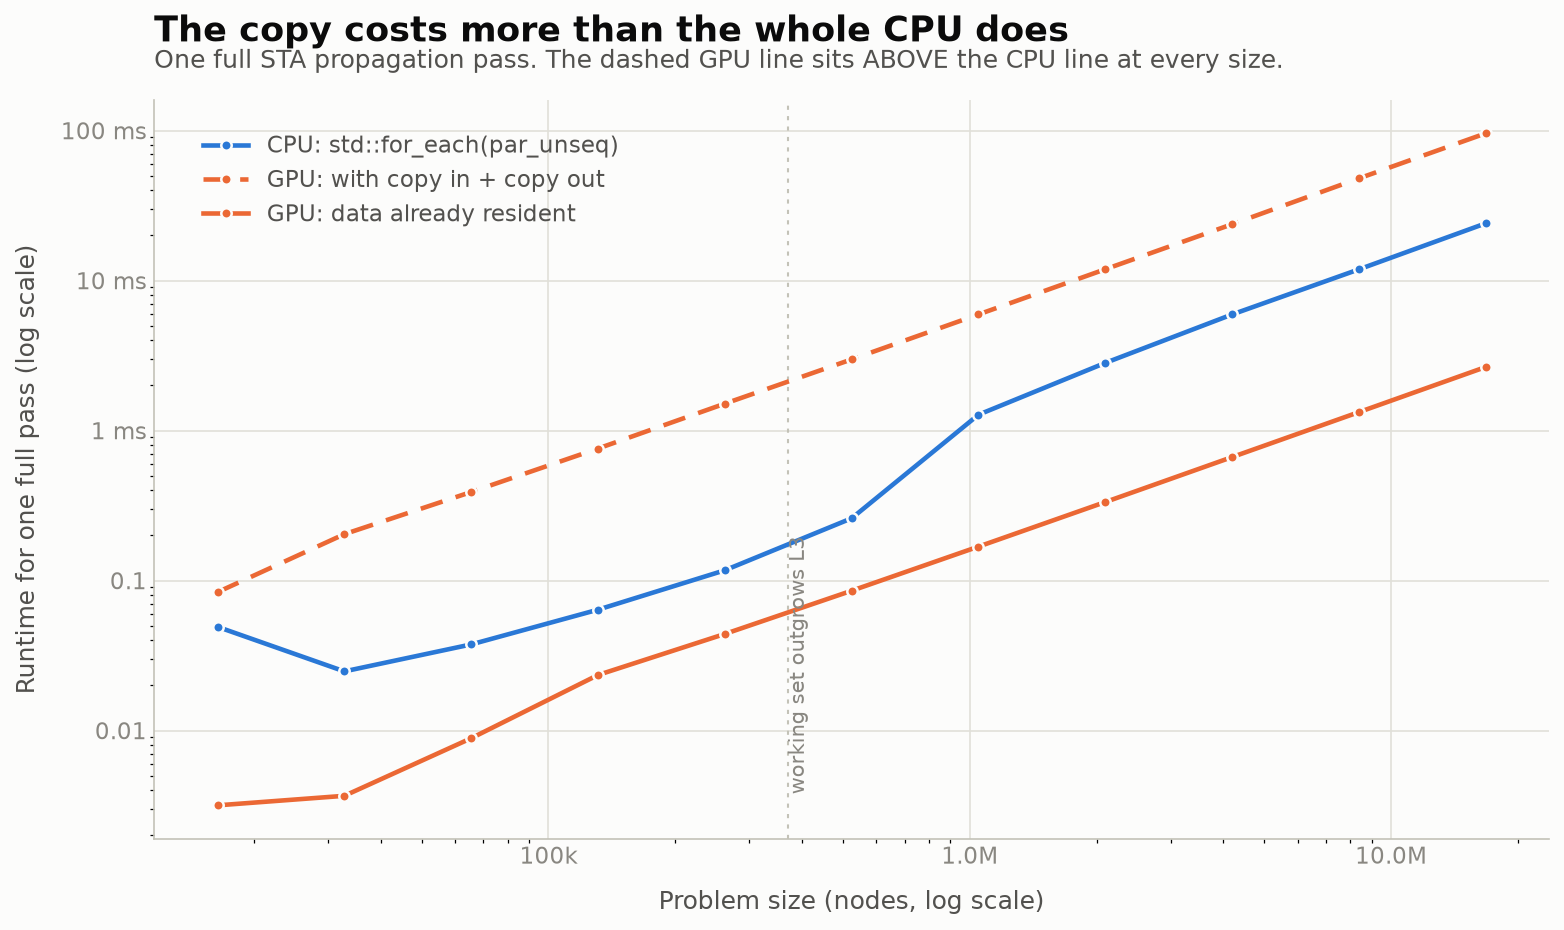
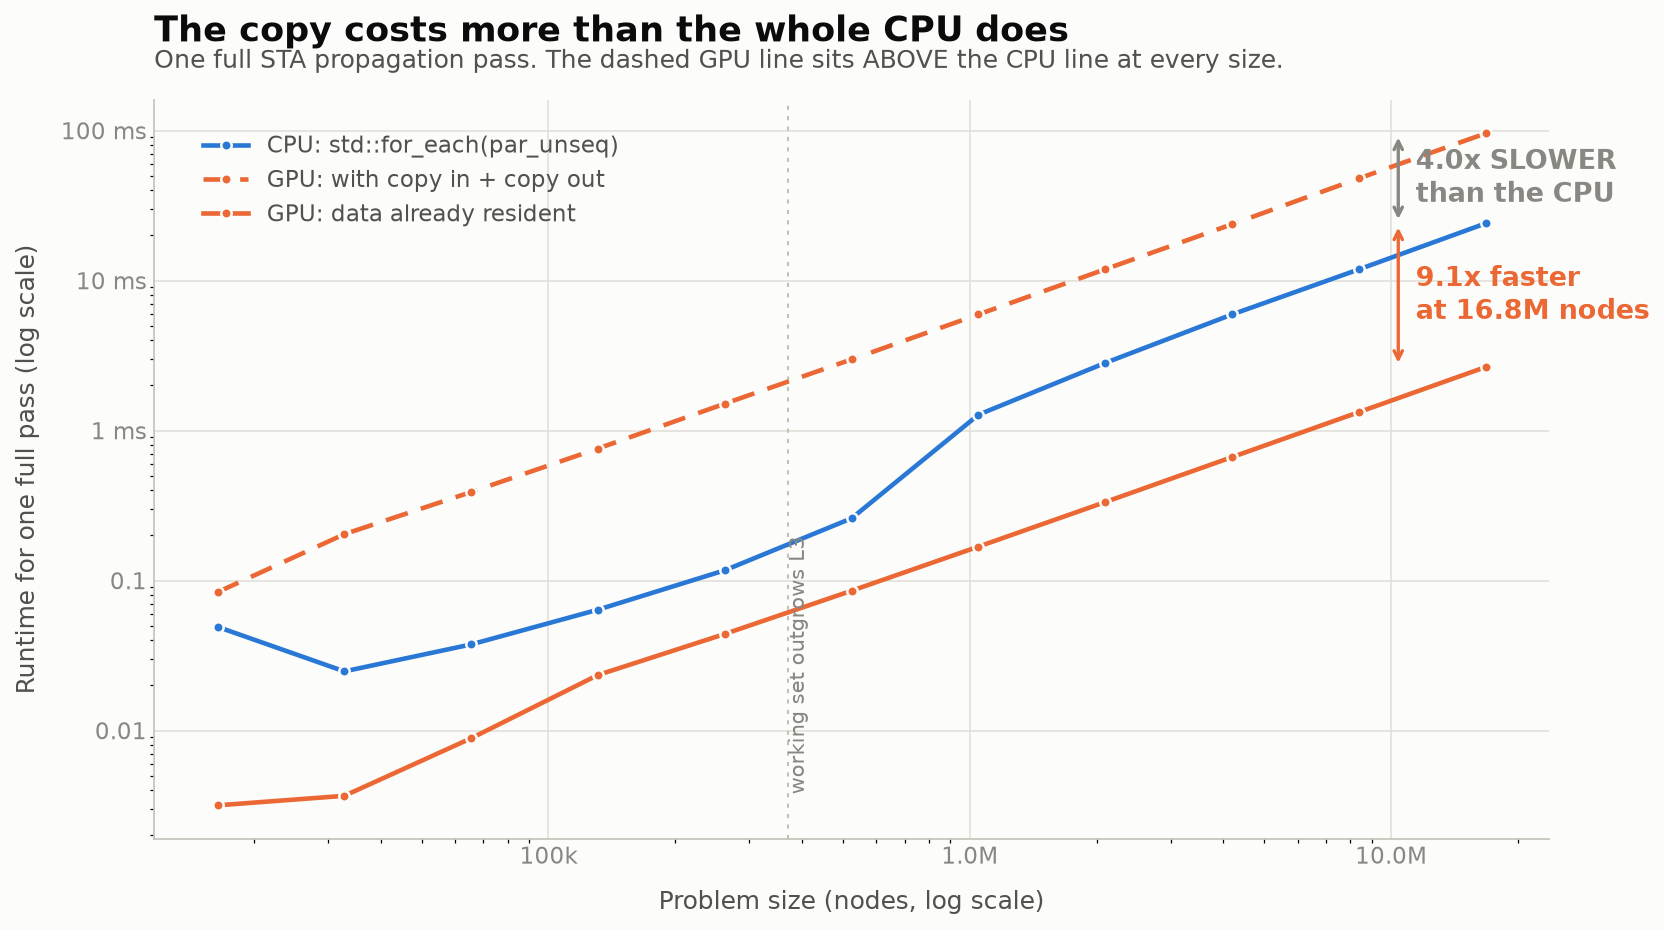
Add GPU bandwidth reference to figure 2, speedup arrows to figures 5 and 6
Figure 2 now carries the GPU's achieved bandwidth as a third reference
line. It shares the y axis already, and it does not spoil figure 3:
figure 3's reveal is that COPYING destroys the advantage, not that the
advantage is large. Seeing the 8.8x headroom here makes the later
reversal land harder.

Figures 5 and 6 gain double-headed speedup arrows. Both are anchored at
the LARGEST problem size rather than the maximum ratio, because the
maxima are artefacts:

  fig 5  max ratio 16,180x at 16k nodes -- the pool's working set fits
         in cache there. At 1M nodes, where neither side is cached, it
         is 5,915x.
  fig 6  max ratio 15.5x at small sizes, where CPU parallel dispatch
         overhead dominates rather than bandwidth. At 16.8M nodes it is
         9.1x, consistent with the 8.8x headline.

Figure 6 also gets the reverse arrow: with copies, the GPU is 4.0x
SLOWER than the CPU at the largest size. Both caveats are recorded in
the README so the numbers cannot be misquoted later.

Claude-Session: https://claude.ai/code/session_01M43UAssLWb3wFebvbjxnoM

diff --git a/plot.py b/plot.py
@@ -172,7 +172,15 @@ def fig_ceiling(theme, all_rows):
     return peak, one, peak_n
 
 
-def fig_naive_vs_pool(theme, rows):
+def gap_arrow(ax, t, x, lo, hi, label, color=None, dx=1.18, fontsize=15):
+    """A double-headed arrow between two y values at x, labelled with the ratio."""
+    ax.annotate("", xy=(x, hi), xytext=(x, lo),
+                arrowprops=dict(arrowstyle="<->", color=color or t["ink2"], linewidth=1.6))
+    ax.text(x * dx, (lo * hi) ** 0.5, label, color=color or t["ink"], fontsize=fontsize,
+            fontweight="bold", va="center", ha="left")
+
+
+def fig_naive_vs_pool(theme, rows, gpu_bw=None):
     """02 -- act 1 vs act 2: what a thread pool is actually worth."""
     pool = medians([r for r in rows if r["strategy"] == "pool"], "threads", "gb_per_sec")
     tpi = statistics.median(
@@ -193,7 +201,13 @@ def fig_naive_vs_pool(theme, rows):
     ax.get_xaxis().set_major_formatter(FuncFormatter(lambda v, _: f"{v:g}"))
     ax.get_yaxis().set_major_formatter(
         FuncFormatter(lambda v, _: f"{v:g}" if v >= 1 else f"{v:.2f}"))
-    ax.set_ylim(tpi * 0.35, peak * 4.0)
+    ax.set_ylim(tpi * 0.35, (gpu_bw * 3.0) if gpu_bw else (peak * 4.0))
+
+    if gpu_bw:
+        # The next tier up, on the same axis. Not a spoiler for figure 3 --
+        # figure 3's reveal is that COPYING destroys this, not that it is large.
+        ax.axhline(gpu_bw, color=t["gpu"], linewidth=2.0, linestyle=(0, (6, 4)),
+                   zorder=3, label="GPU memory bandwidth (data resident)")
 
     ax.axvline(PHYSICAL_CORES, color=t["axis"], linewidth=1.0, linestyle=(0, (2, 3)), zorder=2)
     ax.text(PHYSICAL_CORES, tpi * 0.45, f"  {PHYSICAL_CORES} physical cores",
@@ -201,10 +215,11 @@ def fig_naive_vs_pool(theme, rows):
 
     # The gap is the whole point of the slide.
     mid = xs[len(xs) // 2]
-    ax.annotate("", xy=(mid, peak), xytext=(mid, tpi),
-                arrowprops=dict(arrowstyle="<->", color=t["ink2"], linewidth=1.6))
-    ax.text(mid * 1.25, (peak * tpi) ** 0.5, f"{peak / tpi:,.0f}x", color=t["ink"],
-            fontsize=15, fontweight="bold", va="center", ha="left")
+    gap_arrow(ax, t, mid, tpi, peak, f"{peak / tpi:,.0f}x", dx=1.25)
+    if gpu_bw:
+        gap_arrow(ax, t, xs[-1] * 0.55, peak, gpu_bw,
+                  f"{gpu_bw / peak:.1f}x\nstill above", color=t["gpu"], dx=1.22,
+                  fontsize=13)
 
     ax.annotate(f"bounded by thread creation:\n~7.5 us to spawn, ~50 ns of work",
                 xy=(xs[2], tpi), xytext=(0.05, 0.16), textcoords="axes fraction",
@@ -213,7 +228,7 @@ def fig_naive_vs_pool(theme, rows):
                                 shrinkB=8))
     sat = min(xs, key=lambda v: abs(v - 64))
     ax.annotate("and it still saturates\nat 6 of 14 cores", xy=(sat, pool[sat]),
-                xytext=(0.52, 0.60), textcoords="axes fraction", color=t["cpu"],
+                xytext=(0.68, 0.55), textcoords="axes fraction", color=t["cpu"],
                 fontsize=12, fontweight="bold", ha="left",
                 arrowprops=dict(arrowstyle="->", color=t["cpu"], linewidth=1.2, shrinkA=0,
                                 shrinkB=8))
@@ -351,7 +366,7 @@ def fig_runtime_vs_size(theme, cpu_rows, gpu_rows):
     # L3 is 24 MB on this machine; mark where the working set outgrows it.
     l3_nodes = 24 * 1024 * 1024 / (sta_bytes_per_node())
 
-    def plot(specs, title, subtitle, name, note=None):
+    def plot(specs, title, subtitle, name, note=None, gaps=()):
         fig, ax, t = new_fig(theme)
         for med, color, style, label in specs:
             if not med:
@@ -365,6 +380,18 @@ def fig_runtime_vs_size(theme, cpu_rows, gpu_rows):
         ax.get_xaxis().set_major_formatter(FuncFormatter(lambda v, _: si(v)))
         ax.get_yaxis().set_major_formatter(
             FuncFormatter(lambda v, _: f"{v:g} ms" if v >= 1 else f"{v:g}"))
+        for lo_s, hi_s, color, fmt in gaps:
+            common = sorted(set(lo_s) & set(hi_s))
+            if not common:
+                continue
+            # Anchor at the LARGEST size: the ratio peaks higher at small sizes
+            # purely from cache residency and launch overhead, which would
+            # overstate it.
+            gx = common[-1]
+            gap_arrow(ax, t, gx * 0.62, min(lo_s[gx], hi_s[gx]), max(lo_s[gx], hi_s[gx]),
+                      fmt.format(ratio=max(lo_s[gx], hi_s[gx]) / min(lo_s[gx], hi_s[gx]),
+                                 nodes=si(gx)),
+                      color=color, dx=1.10, fontsize=13)
         ax.axvline(l3_nodes, color=t["axis"], linewidth=1.0, linestyle=(0, (2, 3)), zorder=2)
         ax.text(l3_nodes, ax.get_ylim()[0] * 1.6, "  working set outgrows L3",
                 color=t["muted"], fontsize=10, rotation=90, va="bottom", ha="left")
@@ -386,7 +413,8 @@ def fig_runtime_vs_size(theme, cpu_rows, gpu_rows):
          "One full STA propagation pass. Both axes log. All three lines are the "
          "same arithmetic.",
          "05_runtime_vs_size_cpu.png",
-         note="thread-per-node stops at 1M nodes:\nbeyond that a single pass takes minutes")
+         note="thread-per-node stops at 1M nodes:\nbeyond that a single pass takes minutes",
+         gaps=[(tpi, par, THEMES[theme]["naive"], "{ratio:,.0f}x faster\nat {nodes} nodes")])
 
     plot([(par, THEMES[theme]["cpu"], "-", "CPU: std::for_each(par_unseq)"),
           (xfer, THEMES[theme]["gpu"], (0, (5, 3)), "GPU: with copy in + copy out"),
@@ -394,7 +422,10 @@ def fig_runtime_vs_size(theme, cpu_rows, gpu_rows):
          "The copy costs more than the whole CPU does",
          "One full STA propagation pass. The dashed GPU line sits ABOVE the CPU "
          "line at every size.",
-         "06_runtime_vs_size_gpu.png")
+         "06_runtime_vs_size_gpu.png",
+         gaps=[(par, kern, THEMES[theme]["gpu"], "{ratio:.1f}x faster\nat {nodes} nodes"),
+               (xfer, par, THEMES[theme]["ink2"] if False else "#898781",
+                "{ratio:.1f}x SLOWER\nthan the CPU")])
 
 
 def sta_bytes_per_node():
@@ -420,7 +451,9 @@ def main():
     for theme in ("light", "dark"):
         print(f"{theme}:")
         peak, one, peak_n = fig_ceiling(theme, sta_rows)
-        fig_naive_vs_pool(theme, sta_rows)
+        gpu_bw = (next((float(r["gb_per_sec"]) for r in gpu_rows
+                        if r["impl"] == "gpu_kernel"), None) if gpu_rows else None)
+        fig_naive_vs_pool(theme, sta_rows, gpu_bw)
         if gpu_rows:
             fig_cpu_vs_gpu(theme, peak, one, peak_n, gpu_rows)
         if bd_rows:

diff --git a/README.md b/README.md
@@ -198,8 +198,10 @@ memory controller.
 
 ![Naive vs pool](figures/02_naive_vs_pool.png)
 
-Act 1 against act 2. Deleting the obvious overhead — thread creation — bought four
-decades, and the wall underneath did not move.
+Act 1 against act 2, with the GPU's bandwidth on the same axis for scale. Deleting
+the obvious overhead — thread creation — bought four decades, and the wall
+underneath did not move. There is still 8.8× above it that no amount of CPU
+threading reaches.
 
 ### 3. Same kernel, same numbers, bit-for-bit identical results
 
@@ -223,13 +225,20 @@ Runtime against problem size for the three CPU strategies. The thread-per-node
 line is measured up to 1M nodes; beyond that a single pass takes minutes. All
 three lines compute exactly the same arithmetic.
 
+The speedup arrow is anchored at the **largest** problem size on purpose. The raw
+maximum ratio is higher (16,180× at 16k nodes), but that is an artefact of the
+pool's working set fitting in cache at small sizes — quoting it would overstate
+the result.
+
 ### 6. The copy costs more than the whole CPU does
 
 ![Runtime vs size, GPU](figures/06_runtime_vs_size_gpu.png)
 
 The dashed GPU line sits above the CPU line at *every* problem size. The gap
 between the two GPU lines is the copy, and it never closes — it is proportional
-to the data, exactly like the work is.
+to the data, exactly like the work is. Arrows anchored at the largest size for the
+same reason as figure 5 (the ratio peaks at small sizes where CPU dispatch
+overhead dominates, which would overstate it).
 
 ## Running it
 
